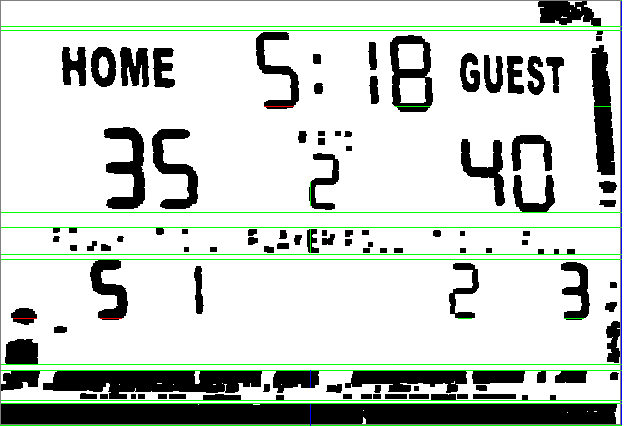
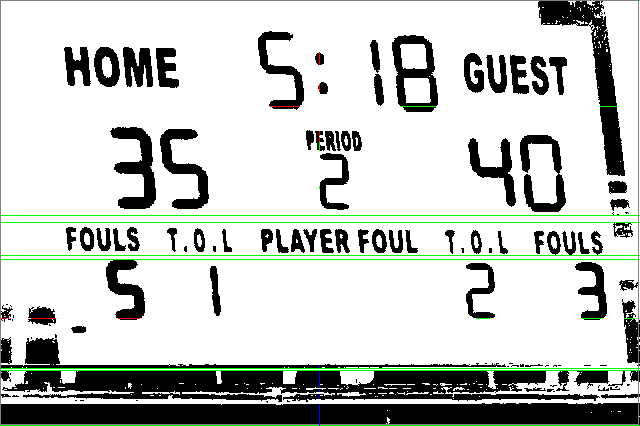
Blackout square, improved recognition by resizing

Changed region(s): [[0.0, 0.0, 1.0, 1.0], [0.4688, 0.1221, 0.5312, 0.1526]]

diff --git a/application.py b/application.py
@@ -103,20 +103,20 @@ class Window(QtGui.QWidget):
 
 
 		self.OCRcoordinates = {
-			"clock_L": [QtGui.QLabel("Clock Left"), QtGui.QLineEdit(u""), QtGui.QLineEdit(u""), QtGui.QLineEdit(u""), QtGui.QLineEdit(u""), QtGui.QLabel("0"), QtGui.QLabel("0")],
-			"clock_R": [QtGui.QLabel("Clock Right"), QtGui.QLineEdit(u""), QtGui.QLineEdit(u""), QtGui.QLineEdit(u""), QtGui.QLineEdit(u""), QtGui.QLabel("0"), QtGui.QLabel("0")],
-			"shot_clock": [QtGui.QLabel("Shot Clock"), QtGui.QLineEdit(u""), QtGui.QLineEdit(u""), QtGui.QLineEdit(u""), QtGui.QLineEdit(u""), QtGui.QLabel("0"), QtGui.QLabel("0")],
-			"quarter": [QtGui.QLabel("Quarter"), QtGui.QLineEdit(u""), QtGui.QLineEdit(u""), QtGui.QLineEdit(u""), QtGui.QLineEdit(u""), QtGui.QLabel("0"), QtGui.QLabel("0")],
-			"home_score": [QtGui.QLabel("Home Score"), QtGui.QLineEdit(u""), QtGui.QLineEdit(u""), QtGui.QLineEdit(u""), QtGui.QLineEdit(u""), QtGui.QLabel("0"), QtGui.QLabel("0")],
-			"home_fouls": [QtGui.QLabel("Home Fouls"), QtGui.QLineEdit(u""), QtGui.QLineEdit(u""), QtGui.QLineEdit(u""), QtGui.QLineEdit(u""), QtGui.QLabel("0"), QtGui.QLabel("0")],
-			"away_score": [QtGui.QLabel("Away Score"), QtGui.QLineEdit(u""), QtGui.QLineEdit(u""), QtGui.QLineEdit(u""), QtGui.QLineEdit(u""), QtGui.QLabel("0"), QtGui.QLabel("0")],
-			"away_fouls": [QtGui.QLabel("Away Fouls"), QtGui.QLineEdit(u""), QtGui.QLineEdit(u""), QtGui.QLineEdit(u""), QtGui.QLineEdit(u""), QtGui.QLabel("0"), QtGui.QLabel("0")],
-			"colon_top": [QtGui.QLabel("Colon Top"), QtGui.QLineEdit(u""), QtGui.QLineEdit(u""), QtGui.QLineEdit(u""), QtGui.QLineEdit(u""), QtGui.QLabel("0"), QtGui.QLabel("0")],
-			"blackout": [QtGui.QLabel("Blackout"), QtGui.QLineEdit(u""), QtGui.QLineEdit(u""), QtGui.QLineEdit(u""), QtGui.QLineEdit(u""), QtGui.QLabel("0"), QtGui.QLabel("0")]
+			"clock_L": [QtGui.QLabel("Clock Left"), QtGui.QLineEdit(u""), QtGui.QLineEdit(u""), QtGui.QLineEdit(u""), QtGui.QLineEdit(u""), QtGui.QLabel("0"), QtGui.QLabel("0"), QtGui.QLineEdit(u"")],
+			"clock_R": [QtGui.QLabel("Clock Right"), QtGui.QLineEdit(u""), QtGui.QLineEdit(u""), QtGui.QLineEdit(u""), QtGui.QLineEdit(u""), QtGui.QLabel("0"), QtGui.QLabel("0"), QtGui.QLineEdit(u"")],
+			"shot_clock": [QtGui.QLabel("Shot Clock"), QtGui.QLineEdit(u""), QtGui.QLineEdit(u""), QtGui.QLineEdit(u""), QtGui.QLineEdit(u""), QtGui.QLabel("0"), QtGui.QLabel("0"), QtGui.QLineEdit(u"")],
+			"quarter": [QtGui.QLabel("Quarter"), QtGui.QLineEdit(u""), QtGui.QLineEdit(u""), QtGui.QLineEdit(u""), QtGui.QLineEdit(u""), QtGui.QLabel("0"), QtGui.QLabel("0"), QtGui.QLineEdit(u"")],
+			"home_score": [QtGui.QLabel("Home Score"), QtGui.QLineEdit(u""), QtGui.QLineEdit(u""), QtGui.QLineEdit(u""), QtGui.QLineEdit(u""), QtGui.QLabel("0"), QtGui.QLabel("0"), QtGui.QLineEdit(u"")],
+			"home_fouls": [QtGui.QLabel("Home Fouls"), QtGui.QLineEdit(u""), QtGui.QLineEdit(u""), QtGui.QLineEdit(u""), QtGui.QLineEdit(u""), QtGui.QLabel("0"), QtGui.QLabel("0"), QtGui.QLineEdit(u"")],
+			"away_score": [QtGui.QLabel("Away Score"), QtGui.QLineEdit(u""), QtGui.QLineEdit(u""), QtGui.QLineEdit(u""), QtGui.QLineEdit(u""), QtGui.QLabel("0"), QtGui.QLabel("0"), QtGui.QLineEdit(u"")],
+			"away_fouls": [QtGui.QLabel("Away Fouls"), QtGui.QLineEdit(u""), QtGui.QLineEdit(u""), QtGui.QLineEdit(u""), QtGui.QLineEdit(u""), QtGui.QLabel("0"), QtGui.QLabel("0"), QtGui.QLineEdit(u"")],
+			"colon_top": [QtGui.QLabel("Colon Top"), QtGui.QLineEdit(u""), QtGui.QLineEdit(u""), QtGui.QLineEdit(u""), QtGui.QLineEdit(u""), QtGui.QLabel("0"), QtGui.QLabel("0"), QtGui.QLineEdit(u"")],
+			"blackout": [QtGui.QLabel("Blackout"), QtGui.QLineEdit(u""), QtGui.QLineEdit(u""), QtGui.QLineEdit(u""), QtGui.QLineEdit(u""), QtGui.QLabel("0"), QtGui.QLabel("0"), QtGui.QLineEdit(u"")]
 		}
-		self.ssocrArguments = QtGui.QLineEdit(u"gray_stretch 190 254 invert remove_isolated crop")
+		self.ssocrArguments = QtGui.QLineEdit(u"gray_stretch 190 254 invert remove_isolated -T crop")
 		self.videoCaptureIndex = QtGui.QLineEdit(u"1")
-		self.waitKey = QtGui.QLineEdit(u"350")
+		self.waitKey = QtGui.QLineEdit(u"300")
 		self.startOCRButton = QtGui.QPushButton("Start OCR")
 		self.startOCRButton.clicked.connect(self.init_OCRWorker)
 		self.terminateOCRButton = QtGui.QPushButton("Stop OCR")
@@ -285,16 +285,16 @@ class Window(QtGui.QWidget):
 
 	def returnOCRCoordinatesList(self): # Returns 1:1 copy of self.OCRcoordinates without QObjects
 		response = {
-			"clock_L": ["", "", "", "", "", "", ""],
-			"clock_R": ["", "", "", "", "", "", ""],
-			"shot_clock": ["", "", "", "", "", "", ""],
-			"quarter": ["", "", "", "", "", "", ""],
-			"home_score": ["", "", "", "", "", "", ""],
-			"home_fouls": ["", "", "", "", "", "", ""],
-			"away_score": ["", "", "", "", "", "", ""],
-			"away_fouls": ["", "", "", "", "", "", ""],
-			"colon_top": ["", "", "", "", "", "", ""],
-			"blackout": ["", "", "", "", "", "", ""]
+			"clock_L": ["", "", "", "", "", "", "", ""],
+			"clock_R": ["", "", "", "", "", "", "", ""],
+			"shot_clock": ["", "", "", "", "", "", "", ""],
+			"quarter": ["", "", "", "", "", "", "", ""],
+			"home_score": ["", "", "", "", "", "", "", ""],
+			"home_fouls": ["", "", "", "", "", "", "", ""],
+			"away_score": ["", "", "", "", "", "", "", ""],
+			"away_fouls": ["", "", "", "", "", "", "", ""],
+			"colon_top": ["", "", "", "", "", "", "", ""],
+			"blackout": ["", "", "", "", "", "", "", ""]
 		}
 		for key, param in self.OCRcoordinates.iteritems():
 			for index, qobj in enumerate(param):
@@ -382,6 +382,11 @@ class Window(QtGui.QWidget):
 
 		self.qsettings.setValue("OCRcoordinates", self.returnOCRCoordinatesList())
 
+		try:
+			self.OCRWorker.importOCRCoordinates(self.returnOCRCoordinatesList())
+		except:
+			pass
+
 	def createOCRGroup(self):
 		groupBox = QtGui.QGroupBox("OCR Coordinates")
 		groupBox.setStyleSheet(GroupBoxStyleSheet)
@@ -410,6 +415,7 @@ class Window(QtGui.QWidget):
 		grid.addWidget(QtGui.QLabel("Y"), 1, 4)
 		grid.addWidget(QtGui.QLabel("Width"), 1, 5)
 		grid.addWidget(QtGui.QLabel("Height"), 1,6)
+		grid.addWidget(QtGui.QLabel("Manual"), 1,7)
 
 		for key, param in self.OCRcoordinates.iteritems(): # Right justify parameter QLabels
 			param[0].setAlignment(Qt.AlignRight)
@@ -425,6 +431,7 @@ class Window(QtGui.QWidget):
 			param[2].editingFinished.connect(self.widthHeightAutoFiller)
 			param[3].editingFinished.connect(self.widthHeightAutoFiller)
 			param[4].editingFinished.connect(self.widthHeightAutoFiller)
+			param[7].editingFinished.connect(self.widthHeightAutoFiller)
 			param[5].setAlignment(Qt.AlignCenter)
 			param[6].setAlignment(Qt.AlignCenter)
 
@@ -618,6 +625,9 @@ class OCRWorker(QtCore.QThread):
 		if event == EVENT_MOUSEMOVE:
 			self.mouse_coordinates = [x, y]
 
+	def importOCRCoordinates(self, OCRCoordinatesList):
+		self.OCRCoordinatesList = OCRCoordinatesList
+
 	def run(self):
 		print "OCRWorker QThread successfully opened."
 		print "ssocr path: " + _ssocrFilePath
@@ -629,8 +639,8 @@ class OCRWorker(QtCore.QThread):
 			print "Webcam native resolution: ",
 			print self.cam.get(cv.CV_CAP_PROP_FRAME_WIDTH), self.cam.get(cv.CV_CAP_PROP_FRAME_HEIGHT)
 
-			self.cam.set(cv.CV_CAP_PROP_FRAME_WIDTH, 427)
-			self.cam.set(cv.CV_CAP_PROP_FRAME_HEIGHT, 240)
+			self.cam.set(cv.CV_CAP_PROP_FRAME_WIDTH, 320)
+			self.cam.set(cv.CV_CAP_PROP_FRAME_HEIGHT, 180)
 
 			namedWindow("OCR Webcam", CV_WINDOW_AUTOSIZE)
 			setMouseCallback("OCR Webcam", self.mouse_hover_coordinates)
@@ -640,6 +650,8 @@ class OCRWorker(QtCore.QThread):
 				success, img = self.cam.read()
 
 				if success:
+					rectangle(img, (int('0' + self.OCRCoordinatesList["blackout"][1]), int('0' + self.OCRCoordinatesList["blackout"][2])), (int('0' + self.OCRCoordinatesList["blackout"][3]), int('0' + self.OCRCoordinatesList["blackout"][4])), (0,0,0), -1)
+					imwrite(_cacheImageFilePath, img)
 					rectangle(img, (0, 0), (90, 35), (0,0,0), -1)
 					putText(img, "X = "+ str(self.mouse_coordinates[0]), (10, 15), FONT_ITALIC, 0.5, (255,255,255))
 					putText(img, "Y = "+ str(self.mouse_coordinates[1]), (10, 30), FONT_ITALIC, 0.5, (255,255,255))
@@ -653,34 +665,34 @@ class OCRWorker(QtCore.QThread):
 					rectangle(img, (int('0' + self.OCRCoordinatesList["away_fouls"][1]), int('0' + self.OCRCoordinatesList["away_fouls"][2])), (int('0' + self.OCRCoordinatesList["away_fouls"][3]), int('0' + self.OCRCoordinatesList["away_fouls"][4])), (0,255,0), 1)
 					rectangle(img, (int('0' + self.OCRCoordinatesList["colon_top"][1]), int('0' + self.OCRCoordinatesList["colon_top"][2])), (int('0' + self.OCRCoordinatesList["colon_top"][3]), int('0' + self.OCRCoordinatesList["colon_top"][4])), (0,255,0), 1)
 					
-					rectangle(img, (int('0' + self.OCRCoordinatesList["blackout"][1]), int('0' + self.OCRCoordinatesList["blackout"][2])), (int('0' + self.OCRCoordinatesList["blackout"][3]), int('0' + self.OCRCoordinatesList["blackout"][4])), (0,0,0), -1)
 
 					colon_top_cropped = img[int('0' + self.OCRCoordinatesList["colon_top"][2]):int('0' + self.OCRCoordinatesList["colon_top"][4]), int('0' + self.OCRCoordinatesList["colon_top"][1]):int('0' + self.OCRCoordinatesList["colon_top"][3])]
 
 					imshow("OCR Webcam", img)
-					imwrite(_cacheImageFilePath, img)
 					waitKey(int(self.waitKey))
 
 					_command = _ssocrFilePath + ' ' + self.ssocrArguments + ' ' + self.OCRCoordinatesList["clock_L"][1] + ' ' + self.OCRCoordinatesList["clock_L"][2] + ' ' + self.OCRCoordinatesList["clock_L"][5] + ' ' + self.OCRCoordinatesList["clock_L"][6] + ' ' + _cacheImageFilePath + ' -d -1'
 					procA = subprocess.Popen(_command, stdout=subprocess.PIPE, shell=True)
 					_command = _ssocrFilePath + ' ' + self.ssocrArguments + ' ' + self.OCRCoordinatesList["clock_R"][1] + ' ' + self.OCRCoordinatesList["clock_R"][2] + ' ' + self.OCRCoordinatesList["clock_R"][5] + ' ' + self.OCRCoordinatesList["clock_R"][6] + ' ' + _cacheImageFilePath + ' -D -d -1'
 					procG = subprocess.Popen(_command, stdout=subprocess.PIPE, shell=True)
-					_command = _ssocrFilePath + ' ' + self.ssocrArguments + ' ' + self.OCRCoordinatesList["quarter"][1] + ' ' + self.OCRCoordinatesList["quarter"][2] + ' ' + self.OCRCoordinatesList["quarter"][5] + ' ' + self.OCRCoordinatesList["quarter"][6] + ' ' + _cacheImageFilePath + ' -d -1'
-					procB = subprocess.Popen(_command, stdout=subprocess.PIPE, shell=True)
+					#_command = _ssocrFilePath + ' ' + self.ssocrArguments + ' ' + self.OCRCoordinatesList["quarter"][1] + ' ' + self.OCRCoordinatesList["quarter"][2] + ' ' + self.OCRCoordinatesList["quarter"][5] + ' ' + self.OCRCoordinatesList["quarter"][6] + ' ' + _cacheImageFilePath + ' -d -1'
+					#procB = subprocess.Popen(_command, stdout=subprocess.PIPE, shell=True)
 					_command = _ssocrFilePath + ' ' + self.ssocrArguments + ' ' + self.OCRCoordinatesList["home_score"][1] + ' ' + self.OCRCoordinatesList["home_score"][2] + ' ' + self.OCRCoordinatesList["home_score"][5] + ' ' + self.OCRCoordinatesList["home_score"][6] + ' ' + _cacheImageFilePath + ' -d -1'
 					procC = subprocess.Popen(_command, stdout=subprocess.PIPE, shell=True)
-					_command = _ssocrFilePath + ' ' + self.ssocrArguments + ' ' + self.OCRCoordinatesList["home_fouls"][1] + ' ' + self.OCRCoordinatesList["home_fouls"][2] + ' ' + self.OCRCoordinatesList["home_fouls"][5] + ' ' + self.OCRCoordinatesList["home_fouls"][6] + ' ' + _cacheImageFilePath + ' -d -1'
-					procD = subprocess.Popen(_command, stdout=subprocess.PIPE, shell=True)
+					#_command = _ssocrFilePath + ' ' + self.ssocrArguments + ' ' + self.OCRCoordinatesList["home_fouls"][1] + ' ' + self.OCRCoordinatesList["home_fouls"][2] + ' ' + self.OCRCoordinatesList["home_fouls"][5] + ' ' + self.OCRCoordinatesList["home_fouls"][6] + ' ' + _cacheImageFilePath + ' -d -1'
+					#procD = subprocess.Popen(_command, stdout=subprocess.PIPE, shell=True)
 					_command = _ssocrFilePath + ' ' + self.ssocrArguments + ' ' + self.OCRCoordinatesList["away_score"][1] + ' ' + self.OCRCoordinatesList["away_score"][2] + ' ' + self.OCRCoordinatesList["away_score"][5] + ' ' + self.OCRCoordinatesList["away_score"][6] + ' ' + _cacheImageFilePath + ' -d -1'
 					procE = subprocess.Popen(_command, stdout=subprocess.PIPE, shell=True)
-					_command = _ssocrFilePath + ' ' + self.ssocrArguments + ' ' + self.OCRCoordinatesList["away_fouls"][1] + ' ' + self.OCRCoordinatesList["away_fouls"][2] + ' ' + self.OCRCoordinatesList["away_fouls"][5] + ' ' + self.OCRCoordinatesList["away_fouls"][6] + ' ' + _cacheImageFilePath + ' -d -1'
-					procF = subprocess.Popen(_command, stdout=subprocess.PIPE, shell=True)
+					#_command = _ssocrFilePath + ' ' + self.ssocrArguments + ' ' + self.OCRCoordinatesList["away_fouls"][1] + ' ' + self.OCRCoordinatesList["away_fouls"][2] + ' ' + self.OCRCoordinatesList["away_fouls"][5] + ' ' + self.OCRCoordinatesList["away_fouls"][6] + ' ' + _cacheImageFilePath + ' -d -1'
+					#procF = subprocess.Popen(_command, stdout=subprocess.PIPE, shell=True)
 
-					clock_L = procA.stdout.read(); clock_R = procG.stdout.read(); quarter = procB.stdout.read(); home_score = procC.stdout.read(); home_fouls = procD.stdout.read(); away_score = procE.stdout.read(); away_fouls = procF.stdout.read()
-					digits = { "clock_L": clock_L, "clock_R": clock_R, "quarter": quarter, "home_score": home_score, "home_fouls": home_fouls, "away_score": away_score, "away_fouls": away_fouls }
+					clock_L = procA.stdout.read(); clock_R = procG.stdout.read(); home_score = procC.stdout.read(); away_score = procE.stdout.read();
+					#quarter = procB.stdout.read(); home_score = procC.stdout.read(); home_fouls = procD.stdout.read(); away_score = procE.stdout.read(); away_fouls = procF.stdout.read()
+					#digits = { "clock_L": clock_L, "clock_R": clock_R, "quarter": quarter, "home_score": home_score, "home_fouls": home_fouls, "away_score": away_score, "away_fouls": away_fouls }
+					digits = { "clock_L": clock_L, "clock_R": clock_R, "quarter": self.OCRCoordinatesList["quarter"][7], "home_score": home_score, "home_fouls": self.OCRCoordinatesList["home_fouls"][7], "away_score": away_score, "away_fouls": self.OCRCoordinatesList["away_fouls"][7] }
 
 					print ""
-					print "Average of Colon: ",
+					print "Average of colon: ",
 					print int(mean(threshold(colon_top_cropped, 100, 255, THRESH_BINARY)[1])[1])
 
 
